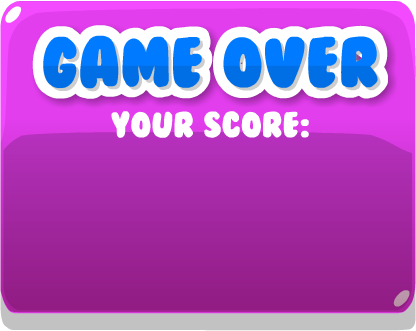
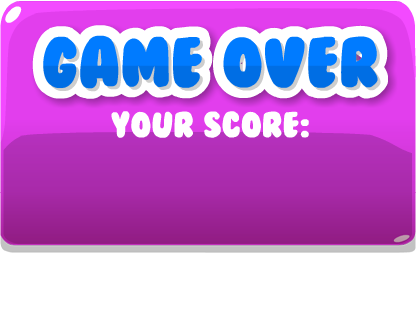
game fully works

Changed region(s): [[0.0, 0.6949, 1.0, 0.997]]

diff --git a/src/game.c b/src/game.c
@@ -2,6 +2,7 @@
 #include "callbacks.h"
 #include "engine.h"	
 #include "tween.h"
+#include <math.h>
 
 #define CAKE_MAX_Y 550
 #define DEADLINE_TIME 10
@@ -21,9 +22,10 @@ void game_reset()
 	g->dt = 0;
 	g->cakesAvailable = 5;
 	g->cakeAmount = 6;
+	g->prevCakeAmount = 6;
 	g->cakeSize = 80;
 	g->dropSpeed = 0;
-	g->timeLeft = 50;
+	g->timeLeft = 59;
 	g->totalHeight = 0;
 
 	// clear all cakes to drop
@@ -304,10 +306,16 @@ void game_update()
             env->arm->x += g->dir * g->speed;
 			
 			list_t* it = g->cakesToDrop;
+			int pos = -(g->cakeAmount - 1) / 2 * g->cakeSize;
+			
+			if (g->cakeAmount % 2 == 0) pos = -g->cakeSize * (g->cakeAmount / 2 - 1) - g->cakeSize / 2;
+			
+			pos += 30;
 
 			while (it)
 			{
-				((sprite*)(it->value))->x += g->dir * g->speed;
+				((sprite*)(it->value))->x = env->arm->x + pos;
+				pos += g->cakeSize;
 				it = it->next;
 			}			
 
@@ -346,9 +354,34 @@ void game_update()
 			}
 
 			g->dropSpeed++;	
-		}	
+		}
+		
+			
 	}		
+	
+	// update falling guys here
+	list_t* it = g->falling;
+	list_t* safe;	
+	sprite* c;
+	
+	while (it)
+	{
+		c = (sprite*)(it->value);
+		safe = it->next;
 
+		if (c->y > 800)
+		{
+			// delete me!
+			list_remove(&(g->falling), (void*)c);
+			engine_removeEntity((entity*)c);	
+			sprite_free(c);
+
+		} else {
+			c->y += g->dropSpeed;
+		}			
+
+		it = safe;
+	}
 }
 
 void game_makeNewCake()
@@ -369,11 +402,12 @@ void game_makeNewCake()
 		g->totalHeight++;	
 
 			
+		g->prevCakeAmount = g->cakeAmount;
 
 		g->score += 70 * g->cakeAmount * g->speed;
 
 
-		if (g->cakesAvailable < 11 && g->score > 60000 * (g->cakesAvailable - 4))
+		if (g->cakesAvailable < 11 && g->totalHeight % 15 == 0)
 		{
 			g->cakesAvailable++;
 		}
@@ -441,6 +475,8 @@ void game_makeNewCake()
 	for (int i = 0; i < g->cakeAmount; i++)
 	{
 		sprite* c = sprite_create("cake", 11);
+
+		c->currentFrame = rand() % g->cakesAvailable + 1;
 	
 		if (g->cakeAmount % 2 != 0) startX = env->arm->x - (g->cakeAmount - 1) / 2 * g->cakeSize;
 		else startX = env->arm->x - g->cakeSize / 2 - (g->cakeAmount / 2 - 1) * g->cakeSize;
@@ -488,9 +524,50 @@ void game_makeNewCake()
 void game_makeFallCheck()
 {
 	int len = list_length(g->cakes);
+		
+	list_t* it = g->cakes;	
+	sprite* c;
 	
-	//int leftCheck = len > 0 ? 	
+	int leftCheck = 80;
+	int rightCheck = 560;
+
+	if (len > 0)
+	{	
+		c = (sprite*)(list_get(g->cakes, len - 1));
+		rightCheck = c->x;
+
+		c = (sprite*)(list_get(g->cakes, len - g->prevCakeAmount));
+		leftCheck = c->x;
+	}
 	
+	it = g->cakesToDrop;
+
+	len = list_length(g->cakesToDrop);
+	int fallen = 0;
+
+	while (it)
+	{
+		c = (sprite*)(it->value);		
+		list_t* safe = it->next;
+		
+		if ((leftCheck - c->x) > g->cakeSize || (c->x - rightCheck) > g->cakeSize)
+		{
+			fallen++;	
+			
+			list_remove(&(g->cakesToDrop), (void*)c);
+			list_add_back(&(g->falling), (void*)c);
+		}
+
+		it = safe;
+	}	
+
+	if (len == fallen) 
+	{
+		// missed all cakes! :)	
+	} else
+	{
+		g->cakeAmount -= fallen;
+	}
 }
 
 void game_finishGame()
@@ -586,8 +663,15 @@ void game_finishGame()
 	
 	tween_create(env->bg2, 320, env->bg2->y + 160, 1, 1, 0, 500, 2400, &expoOut, NULL);		
 
+	// score field
+	engine_setEntityPosition((entity*)(env->scoreField), 225, -200);
+	tween_create(env->scoreField, env->scoreField->x, 370, 1, 1, 0, 1000, 2700, &elasticOut, NULL);
+	
 	// tween gameover
-	tween_create(env->gameover, 320, 300, 1, 1, 0, 1000, 2800, &elasticOut, &game_hideGame);
+	tween_create(env->gameover, 320, 350, 1, 1, 0, 1000, 2800, &elasticOut, NULL);
+
+	// delay
+	tween_create(env->bg1, env->bg1->x, env->bg1->y, 1, 1, 0, 1000, 5000, NULL, &game_hideGame);
 }
 
 void game_hideGame()
@@ -598,6 +682,8 @@ void game_hideGame()
 	tween_create(env->gameover, 320, -220, 1, 1, 0, 500, 0, &backIn, NULL);
 	
 
+	// score field
+	tween_create(env->scoreField, env->scoreField->x, -200, 1, 1, 0, 500, 100, &backIn, NULL);
 	
 	// reset stats
 	game_reset();

diff --git a/src/game.h b/src/game.h
@@ -51,6 +51,7 @@ typedef struct {
 	int dropSpeed;
 	int timeLeft;
 	int totalHeight;
+	int prevCakeAmount;
 	
 	list_t* cakesToDrop;
 	list_t* cakes; 
